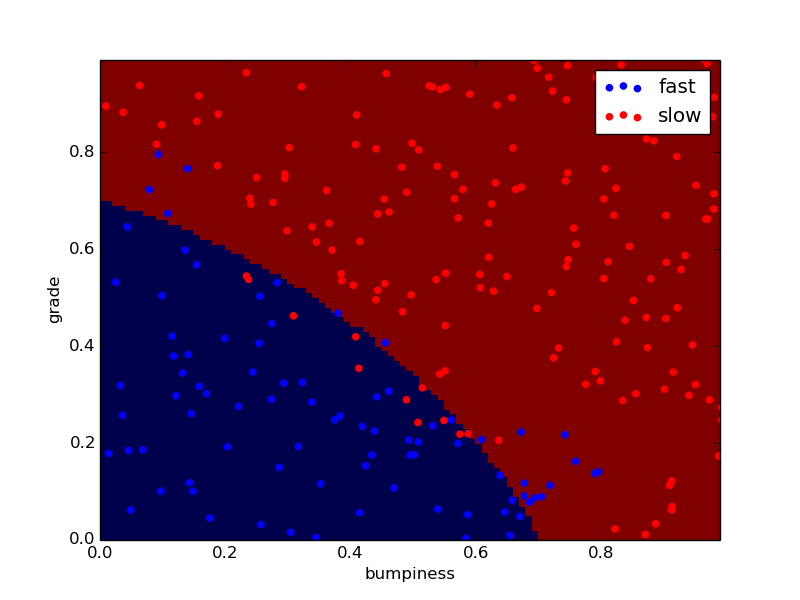
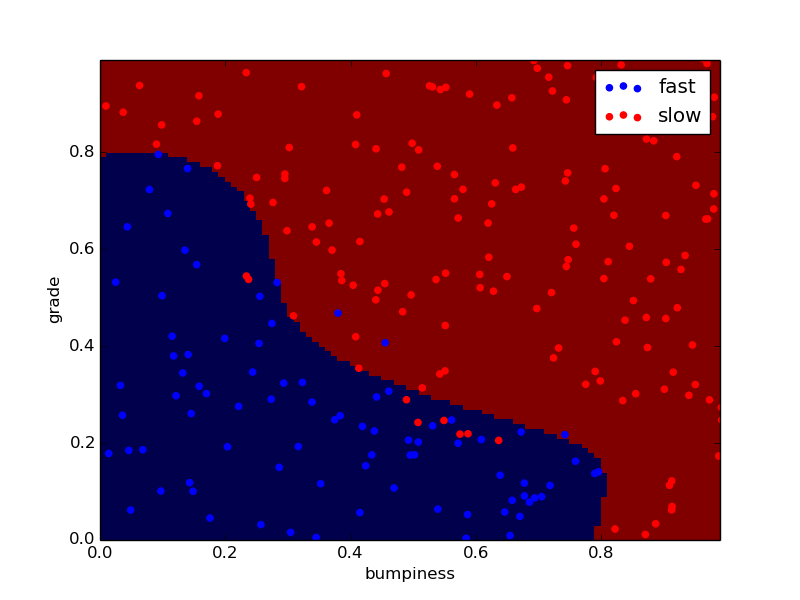
add test argument

Changed region(s): [[0.5312, 0.66, 0.7812, 0.9], [0.125, 0.24, 0.3438, 0.45], [0.3438, 0.45, 0.5312, 0.66]]

diff --git a/ClassifySVM.py b/ClassifySVM.py
@@ -1,0 +1,39 @@
+import sys
+from class_vis import prettyPicture, output_image
+from prep_terrain_data import makeTerrainData
+
+import matplotlib.pyplot as plt
+import copy
+import numpy as np
+import pylab as pl
+
+
+features_train, labels_train, features_test, labels_test = makeTerrainData()
+
+
+########################## SVM #################################
+### we handle the import statement and SVC creation for you here
+from sklearn.svm import SVC
+clf = SVC(C=100000.0, kernel="rbf", gamma = 1.0)
+
+#### now your job is to fit the classifier
+#### using the training features/labels, and to
+#### make a set of predictions on the test data
+
+clf.fit(features_train, labels_train)
+
+### draw the decision boundary with the text points overlaid
+prettyPicture(clf, features_test, labels_test)
+output_image("test.png", "png", open("test.png", "rb").read())
+
+#### store your predictions in a list named pred
+
+pred = clf.predict(features_test)
+
+
+from sklearn.metrics import accuracy_score
+acc = accuracy_score(pred, labels_test)
+
+print 'Here\'s my output:', acc
+def submitAccuracy():
+    return acc
